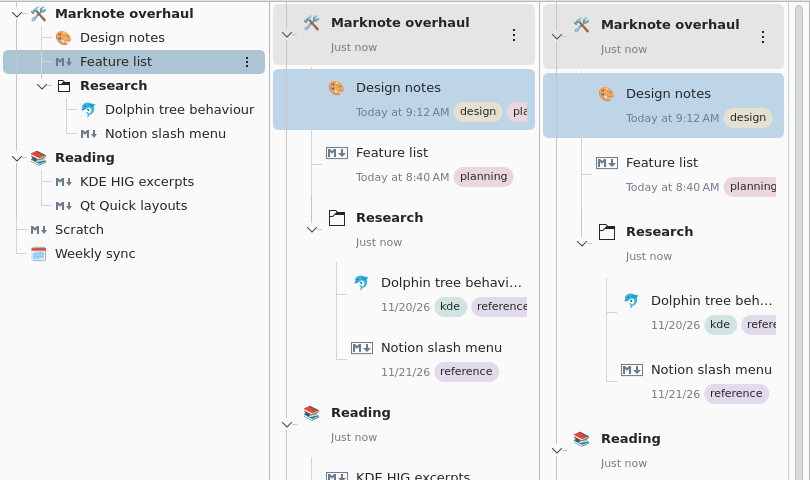
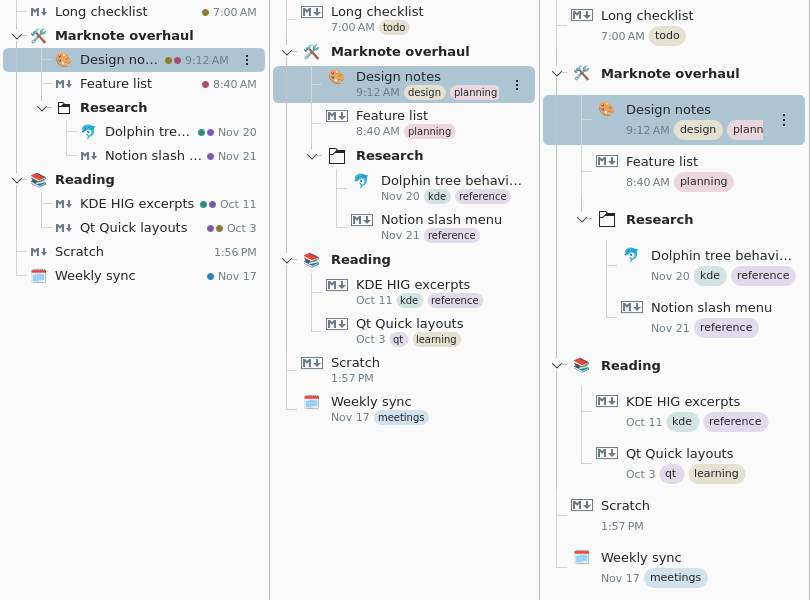
Tighter tree densities; dates and tags in every density
Narrow list (beside an open note):
- Compact: one line with tag dots and a short date at the end.
- Normal: title, then date and up to two small tag chips on a tight
  second line: about 38 px per note instead of about 65. Folders keep
  a single line.
- Comfortable: the previous roomy two-line look.
Wide list: one line with tag and date columns; rows are 24/30/40 px.

Short dates ("9:12 AM", "Nov 20", short date in other years) come from
a new createdShort role; tag colours are shared by chips and dots.

Claude-Session: https://claude.ai/code/session_01Cw4xeHBMdmVt27syg3cw3M

diff --git a/src/qml/NotesPage.qml b/src/qml/NotesPage.qml
@@ -985,6 +985,7 @@ Kirigami.ScrollablePage {
             required property bool isFolder
             required property var tags
             required property string createdText
+            required property string createdShort
             required property string noteIcon
             required property bool noteIconIsEmoji
             property alias renameField: renameField
@@ -1004,6 +1005,20 @@ Kirigami.ScrollablePage {
             // View › Density: 0 compact (single line, tight), 1 normal, 2 comfortable.
             readonly property int density: Config.treeDensity
             readonly property bool compact: density === 0
+            readonly property bool comfortable: density === 2
+            // Narrow list, Normal/Comfortable: date and tags on a short second line (notes only).
+            readonly property bool narrowMeta: !wide && !compact && !isFolder && (showCreated || showTags)
+            // Row heights per density (Compact keeps its natural height).
+            readonly property real targetHeight: {
+                const g = Kirigami.Units.gridUnit;
+                if (wide) {
+                    return comfortable ? g * 2.2 : g * 1.65;
+                }
+                if (isFolder || !narrowMeta) {
+                    return comfortable ? g * 2.0 : g * 1.45;
+                }
+                return comfortable ? g * 2.9 : g * 2.1;
+            }
             readonly property var tagList: tags ? Array.from(tags) : []
             readonly property bool showTags: Config.showTagsColumn && !isFolder && tagList.length > 0
             readonly property bool showCreated: Config.showCreatedColumn && createdText.length > 0
@@ -1163,8 +1178,10 @@ Kirigami.ScrollablePage {
                 Item {
                     Layout.preferredWidth: delegateItem.compact ? Kirigami.Units.iconSizes.small : Kirigami.Units.iconSizes.smallMedium
                     Layout.preferredHeight: delegateItem.compact ? Kirigami.Units.iconSizes.small : Kirigami.Units.iconSizes.smallMedium
-                    Layout.alignment: delegateItem.compact ? Qt.AlignVCenter : Qt.AlignTop
-                    Layout.topMargin: delegateItem.compact ? 0 : Math.max(0, (renameField.implicitHeight - height) / 2)
+                    // Two-line rows: level with the title (the text block is centred,
+                    // so lift the icon by the height of the second line).
+                    Layout.alignment: Qt.AlignVCenter
+                    Layout.bottomMargin: delegateItem.narrowMeta ? metaRow.Layout.preferredHeight + textColumn.spacing : 0
 
                     Label {
                         anchors.centerIn: parent
@@ -1182,9 +1199,10 @@ Kirigami.ScrollablePage {
                 }
 
                 ColumnLayout {
+                    id: textColumn
                     Layout.fillWidth: true
-                    Layout.fillHeight: true
-                    spacing: 0
+                    Layout.alignment: Qt.AlignVCenter
+                    spacing: delegateItem.comfortable ? Math.round(Kirigami.Units.smallSpacing / 2) : 0
 
                     Item{
                         id: textcolorItem
@@ -1197,9 +1215,9 @@ Kirigami.ScrollablePage {
                         spacing: Kirigami.Units.smallSpacing
 
                         Label {
+                            id: titleLabel
                             Layout.fillWidth: true
                             Layout.leftMargin: Kirigami.Units.smallSpacing
-                            Layout.preferredHeight: delegateItem.compact ? -1 : renameField.implicitHeight
                             verticalAlignment: Text.AlignVCenter
 
                             text: delegateItem.name
@@ -1265,6 +1283,33 @@ Kirigami.ScrollablePage {
                         }
 
 
+                        // Compact, narrow: tag dots and a short date at the end of the line.
+                        Row {
+                            visible: !delegateItem.wide && delegateItem.compact && !delegateItem.isFolder && !renameField.enabled
+                                     && (delegateItem.showTags || delegateItem.showCreated)
+                            Layout.alignment: Qt.AlignVCenter
+                            spacing: Math.round(Kirigami.Units.smallSpacing / 2)
+                            Repeater {
+                                model: !delegateItem.wide && delegateItem.compact && delegateItem.showTags ? delegateItem.tagList.slice(0, 3) : []
+                                delegate: Rectangle {
+                                    required property string modelData
+                                    anchors.verticalCenter: parent.verticalCenter
+                                    width: Math.round(Kirigami.Units.gridUnit * 0.4)
+                                    height: width
+                                    radius: width / 2
+                                    color: FilterState.tagHue(modelData)
+                                }
+                            }
+                            Label {
+                                visible: delegateItem.showCreated
+                                anchors.verticalCenter: parent.verticalCenter
+                                leftPadding: Kirigami.Units.smallSpacing / 2
+                                text: delegateItem.createdShort
+                                color: Kirigami.Theme.disabledTextColor
+                                font.pointSize: Kirigami.Theme.smallFont.pointSize
+                            }
+                        }
+
                         // Wide layout: tags and created date as columns on the same line.
                         Row {
                             visible: delegateItem.wide && delegateItem.showTags && !renameField.enabled
@@ -1302,17 +1347,17 @@ Kirigami.ScrollablePage {
                     // Narrow layout: created date and tags on a fixed-height second line
                     // (never wraps, so row heights stay stable while filtering).
                     Row {
-                        visible: !delegateItem.wide && !delegateItem.compact && (delegateItem.showCreated || delegateItem.showTags)
+                        id: metaRow
+                        visible: delegateItem.narrowMeta && !renameField.enabled
                         Layout.fillWidth: true
-                        Layout.preferredHeight: Math.round(Kirigami.Units.gridUnit * 1.1)
+                        Layout.preferredHeight: Math.round(Kirigami.Units.gridUnit * (delegateItem.comfortable ? 1.1 : 0.85))
                         Layout.leftMargin: Kirigami.Units.smallSpacing
-                        Layout.bottomMargin: Kirigami.Units.smallSpacing
                         spacing: Kirigami.Units.smallSpacing
                         clip: true
 
                         Label {
                             visible: delegateItem.showCreated
-                            text: delegateItem.createdText
+                            text: delegateItem.createdShort
                             color: Kirigami.Theme.disabledTextColor
                             font.pointSize: Kirigami.Theme.smallFont.pointSize
                             height: parent.height
@@ -1323,6 +1368,8 @@ Kirigami.ScrollablePage {
                             delegate: TagChip {
                                 required property string modelData
                                 tag: modelData
+                                small: !delegateItem.comfortable
+                                anchors.verticalCenter: parent.verticalCenter
                                 selected: FilterState.tags.indexOf(modelData) !== -1
                                 onClicked: FilterState.toggleTag(modelData)
                             }
@@ -1361,9 +1408,10 @@ Kirigami.ScrollablePage {
                     Layout.alignment: Qt.AlignHCenter
                     Layout.margins: 0
                     // Keep compact rows tight: the hidden menu button must not set the row height.
-                    Layout.maximumHeight: delegateItem.compact ? Kirigami.Units.iconSizes.small + Kirigami.Units.smallSpacing : -1
-                    icon.width: delegateItem.compact ? Kirigami.Units.iconSizes.small : Kirigami.Units.iconSizes.smallMedium
-                    icon.height: delegateItem.compact ? Kirigami.Units.iconSizes.small : Kirigami.Units.iconSizes.smallMedium
+                    Layout.maximumHeight: delegateItem.compact ? Kirigami.Units.iconSizes.small + Kirigami.Units.smallSpacing
+                        : delegateItem.comfortable ? -1 : Kirigami.Units.iconSizes.small + Kirigami.Units.smallSpacing * 2
+                    icon.width: delegateItem.comfortable ? Kirigami.Units.iconSizes.smallMedium : Kirigami.Units.iconSizes.small
+                    icon.height: delegateItem.comfortable ? Kirigami.Units.iconSizes.smallMedium : Kirigami.Units.iconSizes.small
 
                     Accessible.role: Accessible.ButtonMenu
                     Accessible.onPressAction: openMenu()
@@ -1402,19 +1450,15 @@ Kirigami.ScrollablePage {
             }
 
             highlighted: NavigationController.absoluteNotePath === delegateItem.normPath || delegateItem.isDropTarget
-            readonly property real rowPadding: compact ? 1
-                : density === 2 ? Kirigami.Units.largeSpacing
-                : (wide ? Kirigami.Units.smallSpacing : Kirigami.Units.mediumSpacing)
+            readonly property real rowPadding: compact ? 1 : comfortable ? Kirigami.Units.smallSpacing : 1
             topPadding: rowPadding
             bottomPadding: rowPadding
-            // RoundedItemDelegate enforces a 2-gridUnit minimum height; compact rows drop it.
+            // RoundedItemDelegate enforces a 2-gridUnit minimum height; each density sets its own.
             implicitHeight: compact
                 ? implicitContentHeight + topPadding + bottomPadding + 2
-                : Math.max(implicitBackgroundHeight + topInset + bottomInset,
-                           implicitContentHeight + topPadding + bottomPadding,
-                           Kirigami.Units.gridUnit * 2)
-            topInset: compact ? 0 : Math.round(Kirigami.Units.smallSpacing / 2)
-            bottomInset: compact ? 0 : Math.round(Kirigami.Units.smallSpacing / 2)
+                : Math.max(implicitContentHeight + topPadding + bottomPadding, Math.round(targetHeight))
+            topInset: compact ? 0 : 1
+            bottomInset: compact ? 0 : 1
         }
 
         // Dropping on empty space moves the note to the top level of the notebook.

diff --git a/src/qml/TagChip.qml b/src/qml/TagChip.qml
@@ -6,6 +6,7 @@ import QtQuick.Controls as Controls
 import QtQuick.Layouts
 import org.kde.kirigami as Kirigami
 import org.kde.ki18n
+import org.kde.marknote
 
 /**
  * A small coloured tag pill. The hue is derived from the tag name so a tag
@@ -21,19 +22,15 @@ Controls.AbstractButton {
 
     signal removeRequested()
 
-    readonly property color hue: {
-        const palette = ["#2d7fb8", "#c2622a", "#3a8a55", "#7b57b0", "#2f8a83", "#b5456a", "#8a7a2a", "#5a6e8a"];
-        let h = 0;
-        for (let i = 0; i < tag.length; i++) {
-            h = (h * 31 + tag.charCodeAt(i)) >>> 0;
-        }
-        return palette[h % palette.length];
-    }
+    /// Smaller pill for dense list rows.
+    property bool small: false
+
+    readonly property color hue: FilterState.tagHue(tag)
 
     hoverEnabled: true
     focusPolicy: Qt.NoFocus
-    implicitHeight: Math.round(Kirigami.Units.gridUnit * 1.1)
-    implicitWidth: row.implicitWidth + Kirigami.Units.smallSpacing * 3
+    implicitHeight: Math.round(Kirigami.Units.gridUnit * (small ? 0.85 : 1.1))
+    implicitWidth: row.implicitWidth + Kirigami.Units.smallSpacing * (small ? 2 : 3)
     text: tag
 
     Accessible.name: removable ? KI18n.i18nc("@action:button", "Remove tag %1", tag) : tag
@@ -53,7 +50,7 @@ Controls.AbstractButton {
 
             Controls.Label {
                 text: root.tag
-                font.pointSize: Kirigami.Theme.smallFont.pointSize
+                font.pointSize: Kirigami.Theme.smallFont.pointSize * (root.small ? 0.92 : 1)
                 color: Kirigami.Theme.textColor
             }
             Kirigami.Icon {

diff --git a/src/qml/FilterState.qml b/src/qml/FilterState.qml
@@ -33,6 +33,16 @@ QtObject {
 
     signal focusRequested()
 
+    /// The colour of a tag, the same everywhere (chips, dots).
+    function tagHue(tag: string): color {
+        const palette = ["#2d7fb8", "#c2622a", "#3a8a55", "#7b57b0", "#2f8a83", "#b5456a", "#8a7a2a", "#5a6e8a"];
+        let h = 0;
+        for (let i = 0; i < tag.length; i++) {
+            h = (h * 31 + tag.charCodeAt(i)) >>> 0;
+        }
+        return palette[h % palette.length];
+    }
+
     function hasTag(tag: string): bool {
         return tags.indexOf(tag) !== -1;
     }

diff --git a/src/notesmodel.cpp b/src/notesmodel.cpp
@@ -56,7 +56,7 @@ NotesModel::NotesModel(QObject *parent)
     connect(NoteMetadata::instance(), &NoteMetadata::metadataChanged, this, [this](const QString &path) {
         const QModelIndex idx = mapFromSource(m_fsModel->index(path));
         if (idx.isValid()) {
-            Q_EMIT dataChanged(idx, idx, {Role::Icon, Role::IconIsEmoji, Role::Tags, Role::Created, Role::CreatedText});
+            Q_EMIT dataChanged(idx, idx, {Role::Icon, Role::IconIsEmoji, Role::Tags, Role::Created, Role::CreatedText, Role::CreatedShort});
         }
     });
 
@@ -191,6 +191,10 @@ QVariant NotesModel::data(const QModelIndex &index, int role) const
             return FrontMatter::fileCreationTime(m_fsModel->filePath(srcIndex));
         }
         return NoteMetadata::instance()->createdForFile(m_fsModel->filePath(srcIndex));
+    case Role::CreatedShort: {
+        const QDateTime created = data(index, Role::Created).toDateTime();
+        return NoteMetadata::instance()->formatCreatedShort(created);
+    }
     case Role::CreatedText: {
         const QDateTime created = data(index, Role::Created).toDateTime();
         return NoteMetadata::instance()->formatCreated(created);
@@ -224,6 +228,7 @@ QHash<int, QByteArray> NotesModel::roleNames() const
     roles[Role::IsFolder] = "isFolder";
     roles[Role::Created] = "created";
     roles[Role::CreatedText] = "createdText";
+    roles[Role::CreatedShort] = "createdShort";
     roles[Role::Icon] = "noteIcon";
     roles[Role::IconIsEmoji] = "noteIconIsEmoji";
     roles[Role::Tags] = "tags";

diff --git a/src/notemetadata/notemetadata.cpp b/src/notemetadata/notemetadata.cpp
@@ -292,6 +292,27 @@ QString NoteMetadata::formatCreated(const QDateTime &created) const
     return QLocale().toString(date, QLocale::ShortFormat);
 }
 
+QString NoteMetadata::formatCreatedShort(const QDateTime &created) const
+{
+    if (!created.isValid()) {
+        return {};
+    }
+    const QLocale locale;
+    const QDateTime local = created.toLocalTime();
+    const QDate date = local.date();
+    const QDate today = QDate::currentDate();
+    if (date == today) {
+        return locale.toString(local.time(), QLocale::ShortFormat);
+    }
+    if (date.year() == today.year()) {
+        // "Nov 20", or "20 Nov" where the locale puts the day first.
+        const QString format = locale.dateFormat(QLocale::ShortFormat);
+        const bool dayFirst = format.indexOf(u'd') >= 0 && format.indexOf(u'd') < format.indexOf(u'M');
+        return locale.toString(date, dayFirst ? u"d MMM"_s : u"MMM d"_s);
+    }
+    return locale.toString(date, QLocale::ShortFormat);
+}
+
 QString NoteMetadata::normalizeTag(const QString &tag)
 {
     QString t = tag.trimmed();

diff --git a/src/notemetadata/notemetadata.h b/src/notemetadata/notemetadata.h
@@ -65,6 +65,8 @@ public:
 
     /// "Today at 09:12", "Yesterday at …", or a short date.
     Q_INVOKABLE QString formatCreated(const QDateTime &created) const;
+    /// Shorter form for narrow lists: the time today, "Nov 20" this year, else the short date.
+    Q_INVOKABLE QString formatCreatedShort(const QDateTime &created) const;
 
     /// Normalise a user-entered tag: trimmed, no leading '#', spaces → '-'.
     Q_INVOKABLE static QString normalizeTag(const QString &tag);

diff --git a/src/notesmodel.h b/src/notesmodel.h
@@ -31,6 +31,7 @@ public:
         IsFolder,
         Created, ///< QDateTime: front matter "created", else file birth time
         CreatedText, ///< localized "Today at 09:12" / short date
+        CreatedShort, ///< compact "09:12" today, "Nov 20" this year, else short date
         Icon, ///< emoji or icon theme name ("" when unset)
         IconIsEmoji,
         Tags, ///< QStringList

diff --git a/README.md b/README.md
@@ -30,7 +30,8 @@ Built on current KDE `master` (which includes the GSoC 2026 block editor), plus
   onto empty space to move it to the top of the notebook.
 - Each row shows the note's **icon or emoji**, its **tags** and its **created date**
   (visible by default; *View › Show Tags / Show Created Date*).
-- *View › Density*: **Compact**, **Normal** or **Comfortable** rows.
+- *View › Density*: **Compact** (one line, tag dots and a short date), **Normal** (title, then
+  date and tags on a tight second line) or **Comfortable** rows. Dates and tags show in all three.
 - *View › Sort Notes › By Created Date*.
 
 **Filter bar**
